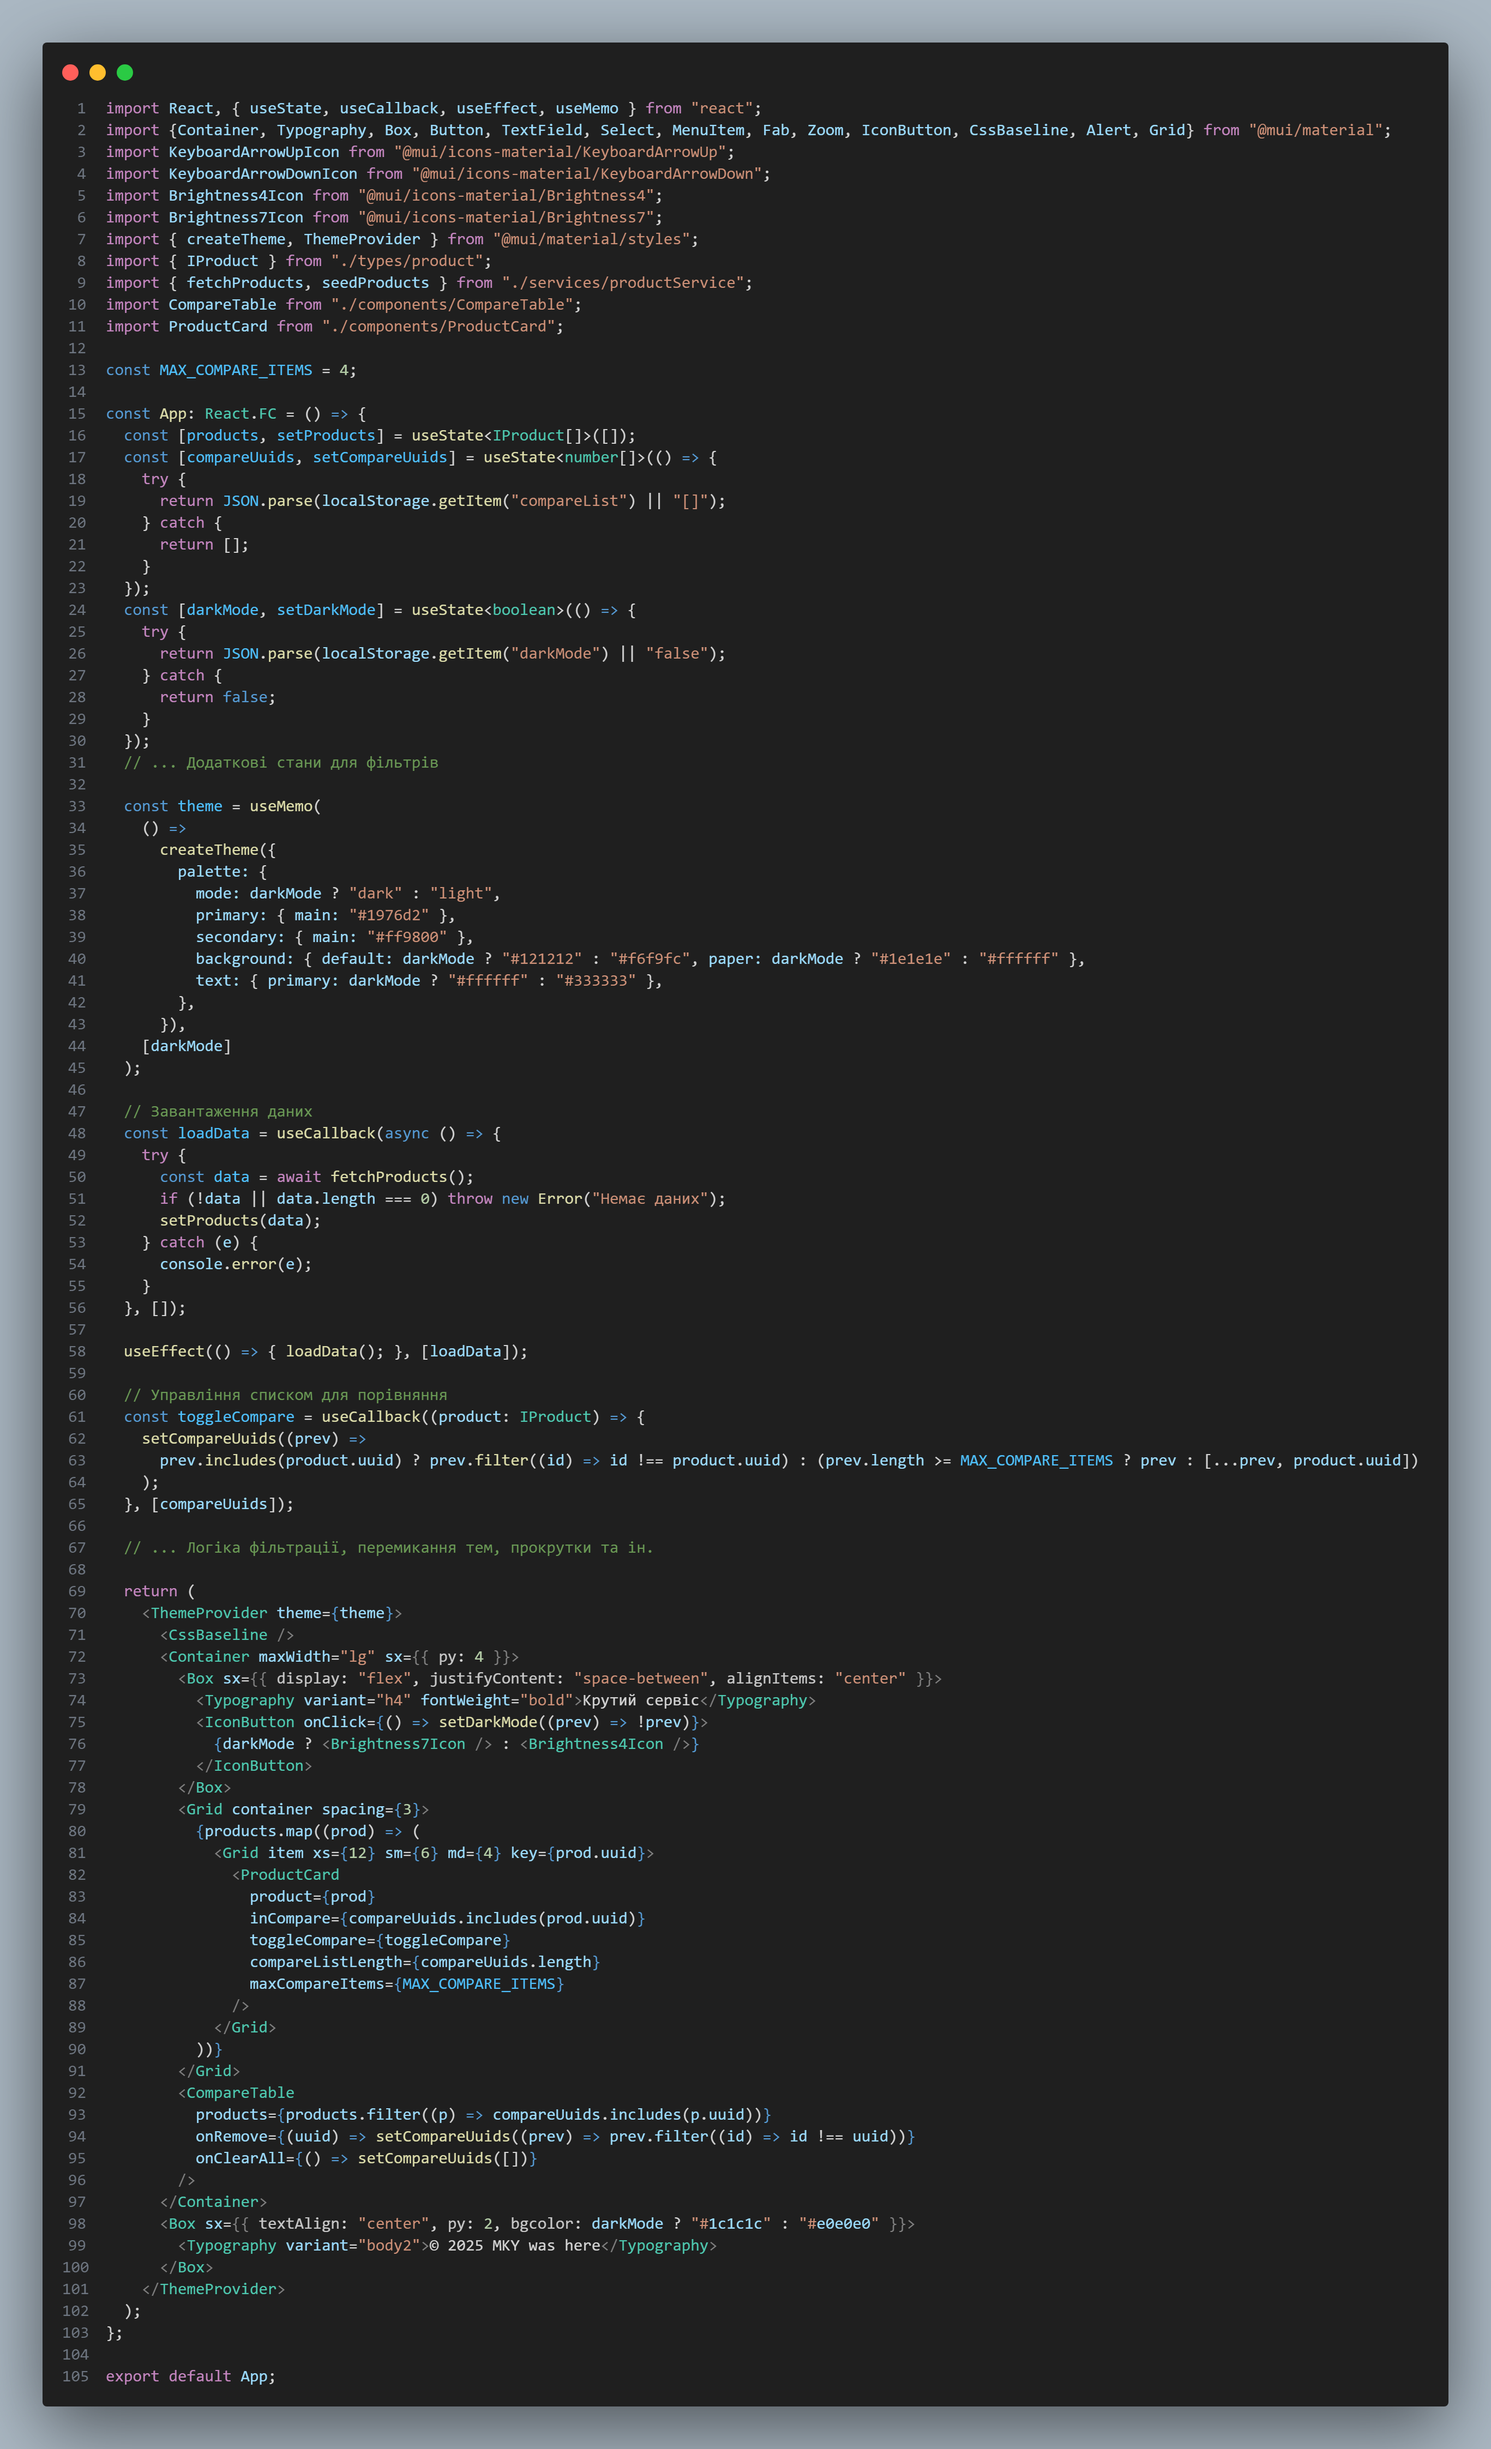
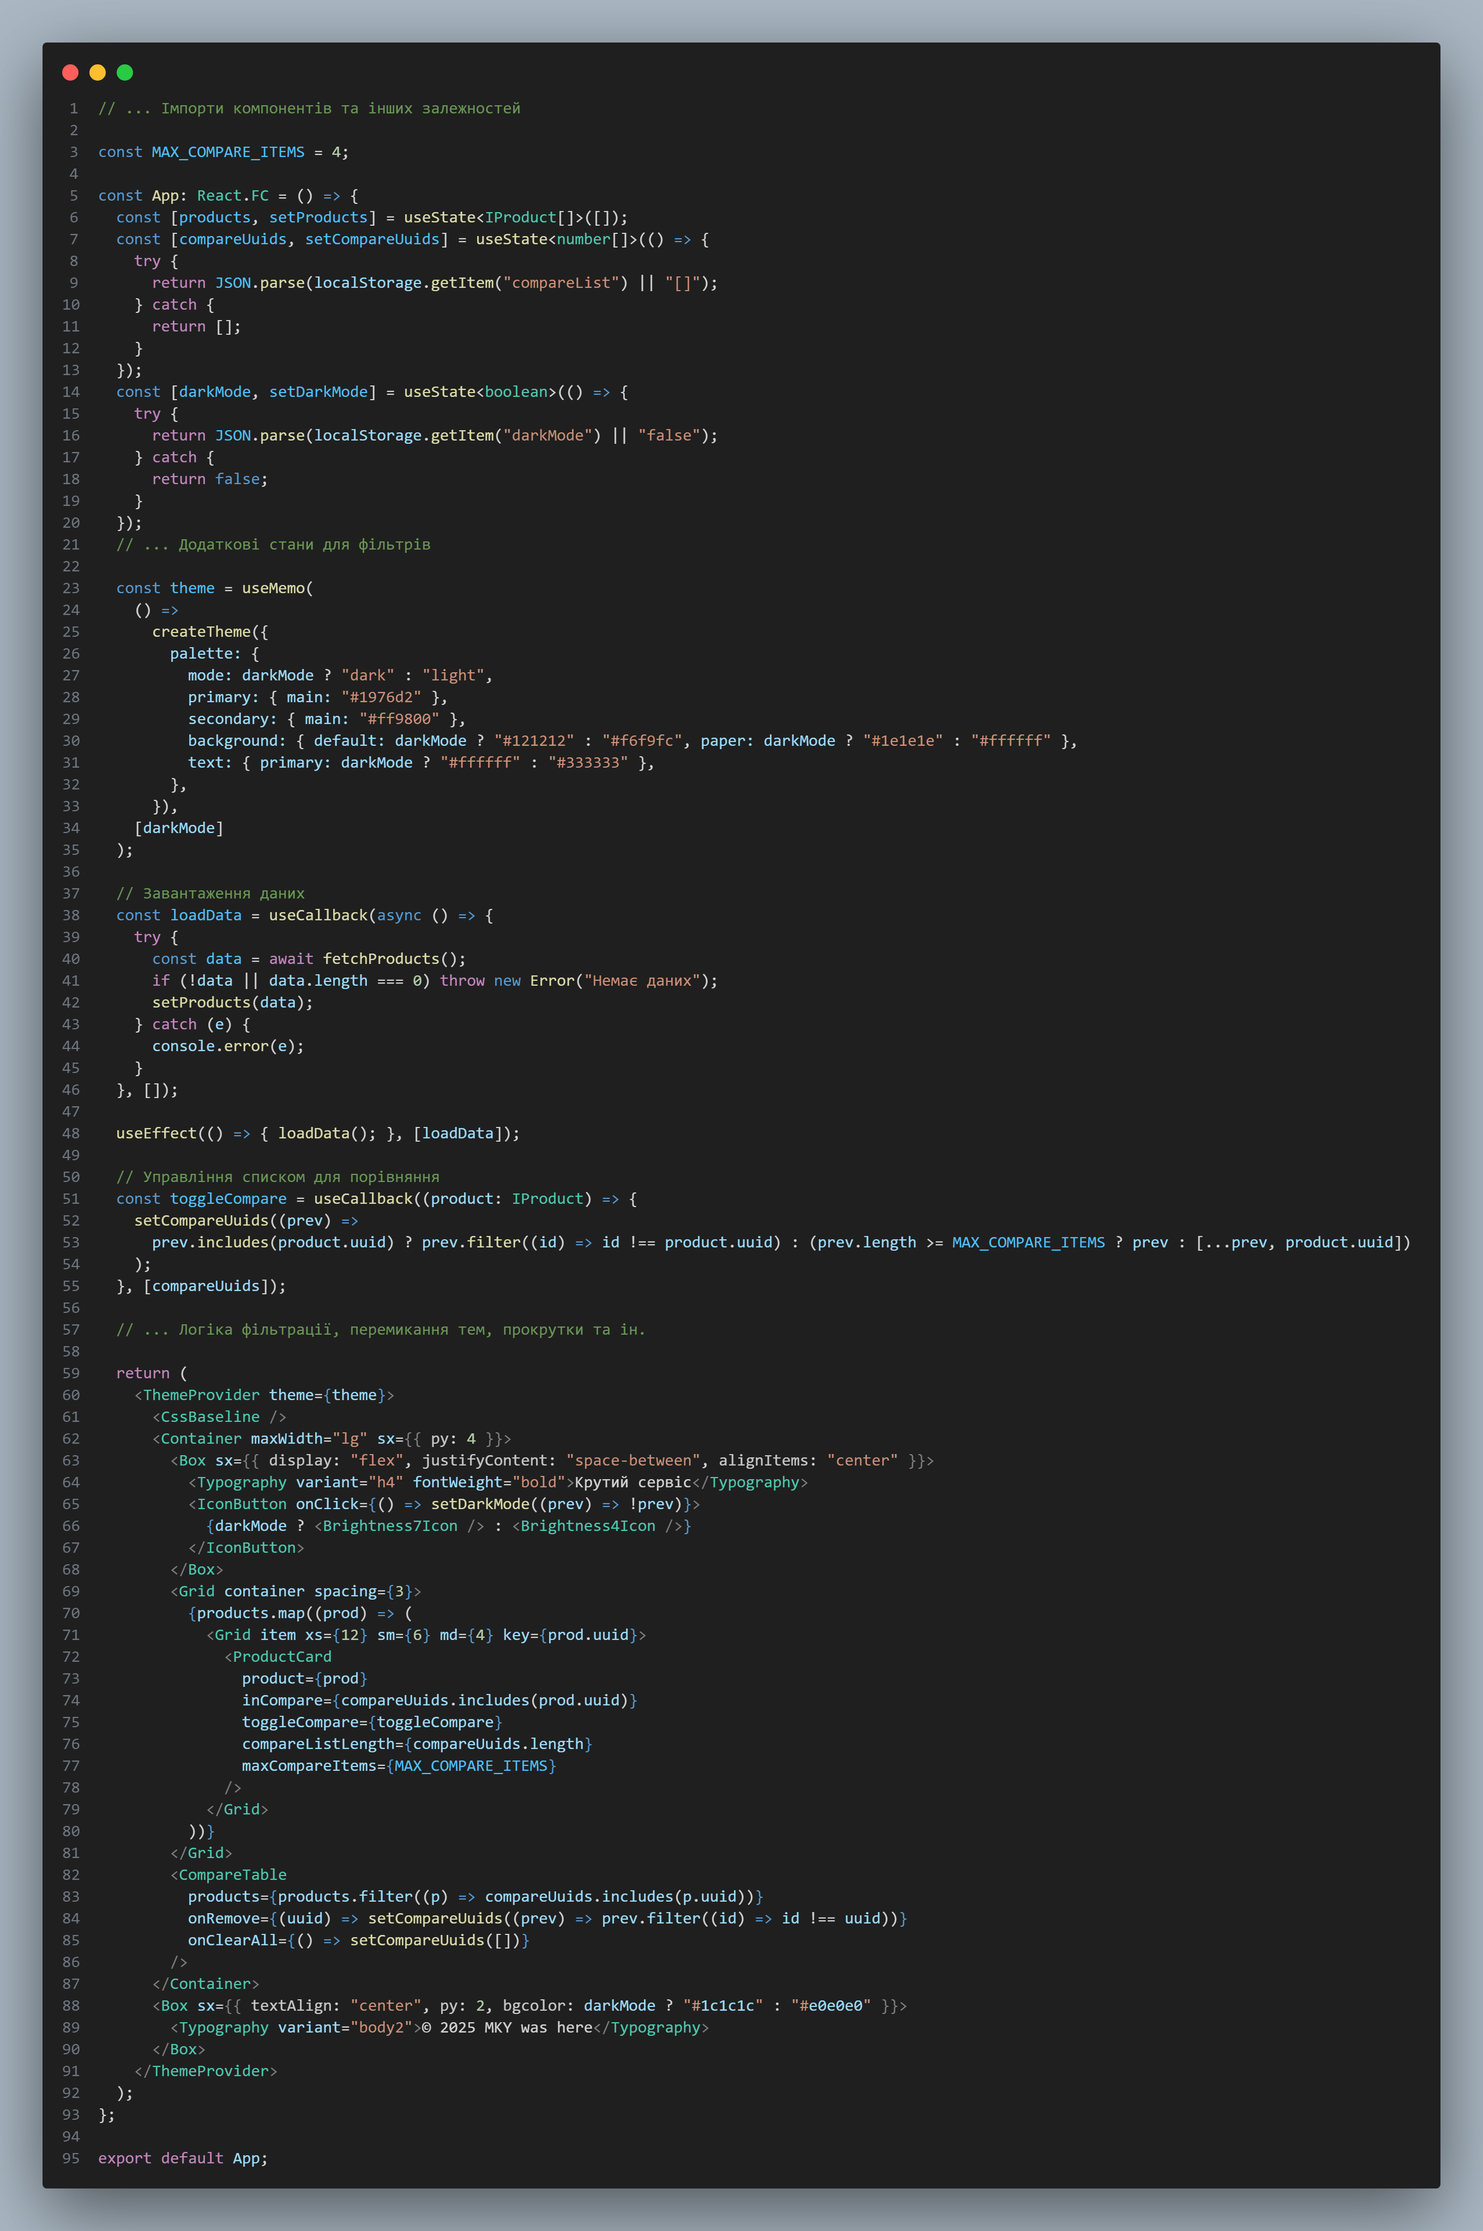
images, resize, cut

Changed region(s): [[0.0312, 0.0, 0.5, 0.9932], [0.5, 0.6518, 0.5312, 0.7138], [0.2812, 0.4655, 0.3125, 0.4966]]

diff --git a/client/README.md b/client/README.md
@@ -191,17 +191,7 @@ export default ProductCard;
 Головний компонент клієнтської частини організовує роботу додатку, завантажує список товарів із API, організовує фільтрацію, а також управляє списком товарів для порівняння. Також реалізовано перемикання темного/світлого режиму.
 
 ```tsx
-import React, { useState, useCallback, useEffect, useMemo } from "react";
-import {Container, Typography, Box, Button, TextField, Select, MenuItem, Fab, Zoom, IconButton, CssBaseline, Alert, Grid} from "@mui/material";
-import KeyboardArrowUpIcon from "@mui/icons-material/KeyboardArrowUp";
-import KeyboardArrowDownIcon from "@mui/icons-material/KeyboardArrowDown";
-import Brightness4Icon from "@mui/icons-material/Brightness4";
-import Brightness7Icon from "@mui/icons-material/Brightness7";
-import { createTheme, ThemeProvider } from "@mui/material/styles";
-import { IProduct } from "./types/product";
-import { fetchProducts, seedProducts } from "./services/productService";
-import CompareTable from "./components/CompareTable";
-import ProductCard from "./components/ProductCard";
+// ... Імпорти компонентів та інших залежностей
 
 const MAX_COMPARE_ITEMS = 4;
 
@@ -331,57 +321,6 @@ export async function seedDevices(req: Request, res: Response) {
 }
 
 // Інші функції (getDeviceById, createDevice, updateDevice, deleteDevice)...
-```
-
-_Файл роутів (deviceRoutes.ts):_
-
-```ts
-import { Router } from "express";
-import {
-  getDevices,
-  seedDevices,
-  // Інші контролери...
-} from "../controllers/deviceController";
-
-const router = Router();
-
-router.get("/", getDevices);
-router.get("/seed/devices", seedDevices);
-// Додаткові маршрути для POST, PUT, DELETE
-
-export default router;
-```
-
-_Основний файл сервера (index.ts):_
-
-```ts
-import express from "express";
-import dotenv from "dotenv";
-import morgan from "morgan";
-import cors from "cors";
-import helmet from "helmet";
-import compression from "compression";
-import connectDB from "./config/db";
-import deviceRoutes from "./routes/deviceRoutes";
-
-dotenv.config();
-
-const app = express();
-
-connectDB();
-
-app.use(express.json());
-app.use(morgan("dev"));
-app.use(helmet());
-app.use(compression());
-app.use(cors());
-
-app.use("/api/devices", deviceRoutes);
-
-const PORT = process.env.PORT || 5305;
-app.listen(PORT, () => {
-  console.log(`Server running on port ${PORT}`);
-});
 ```
 
 ---
